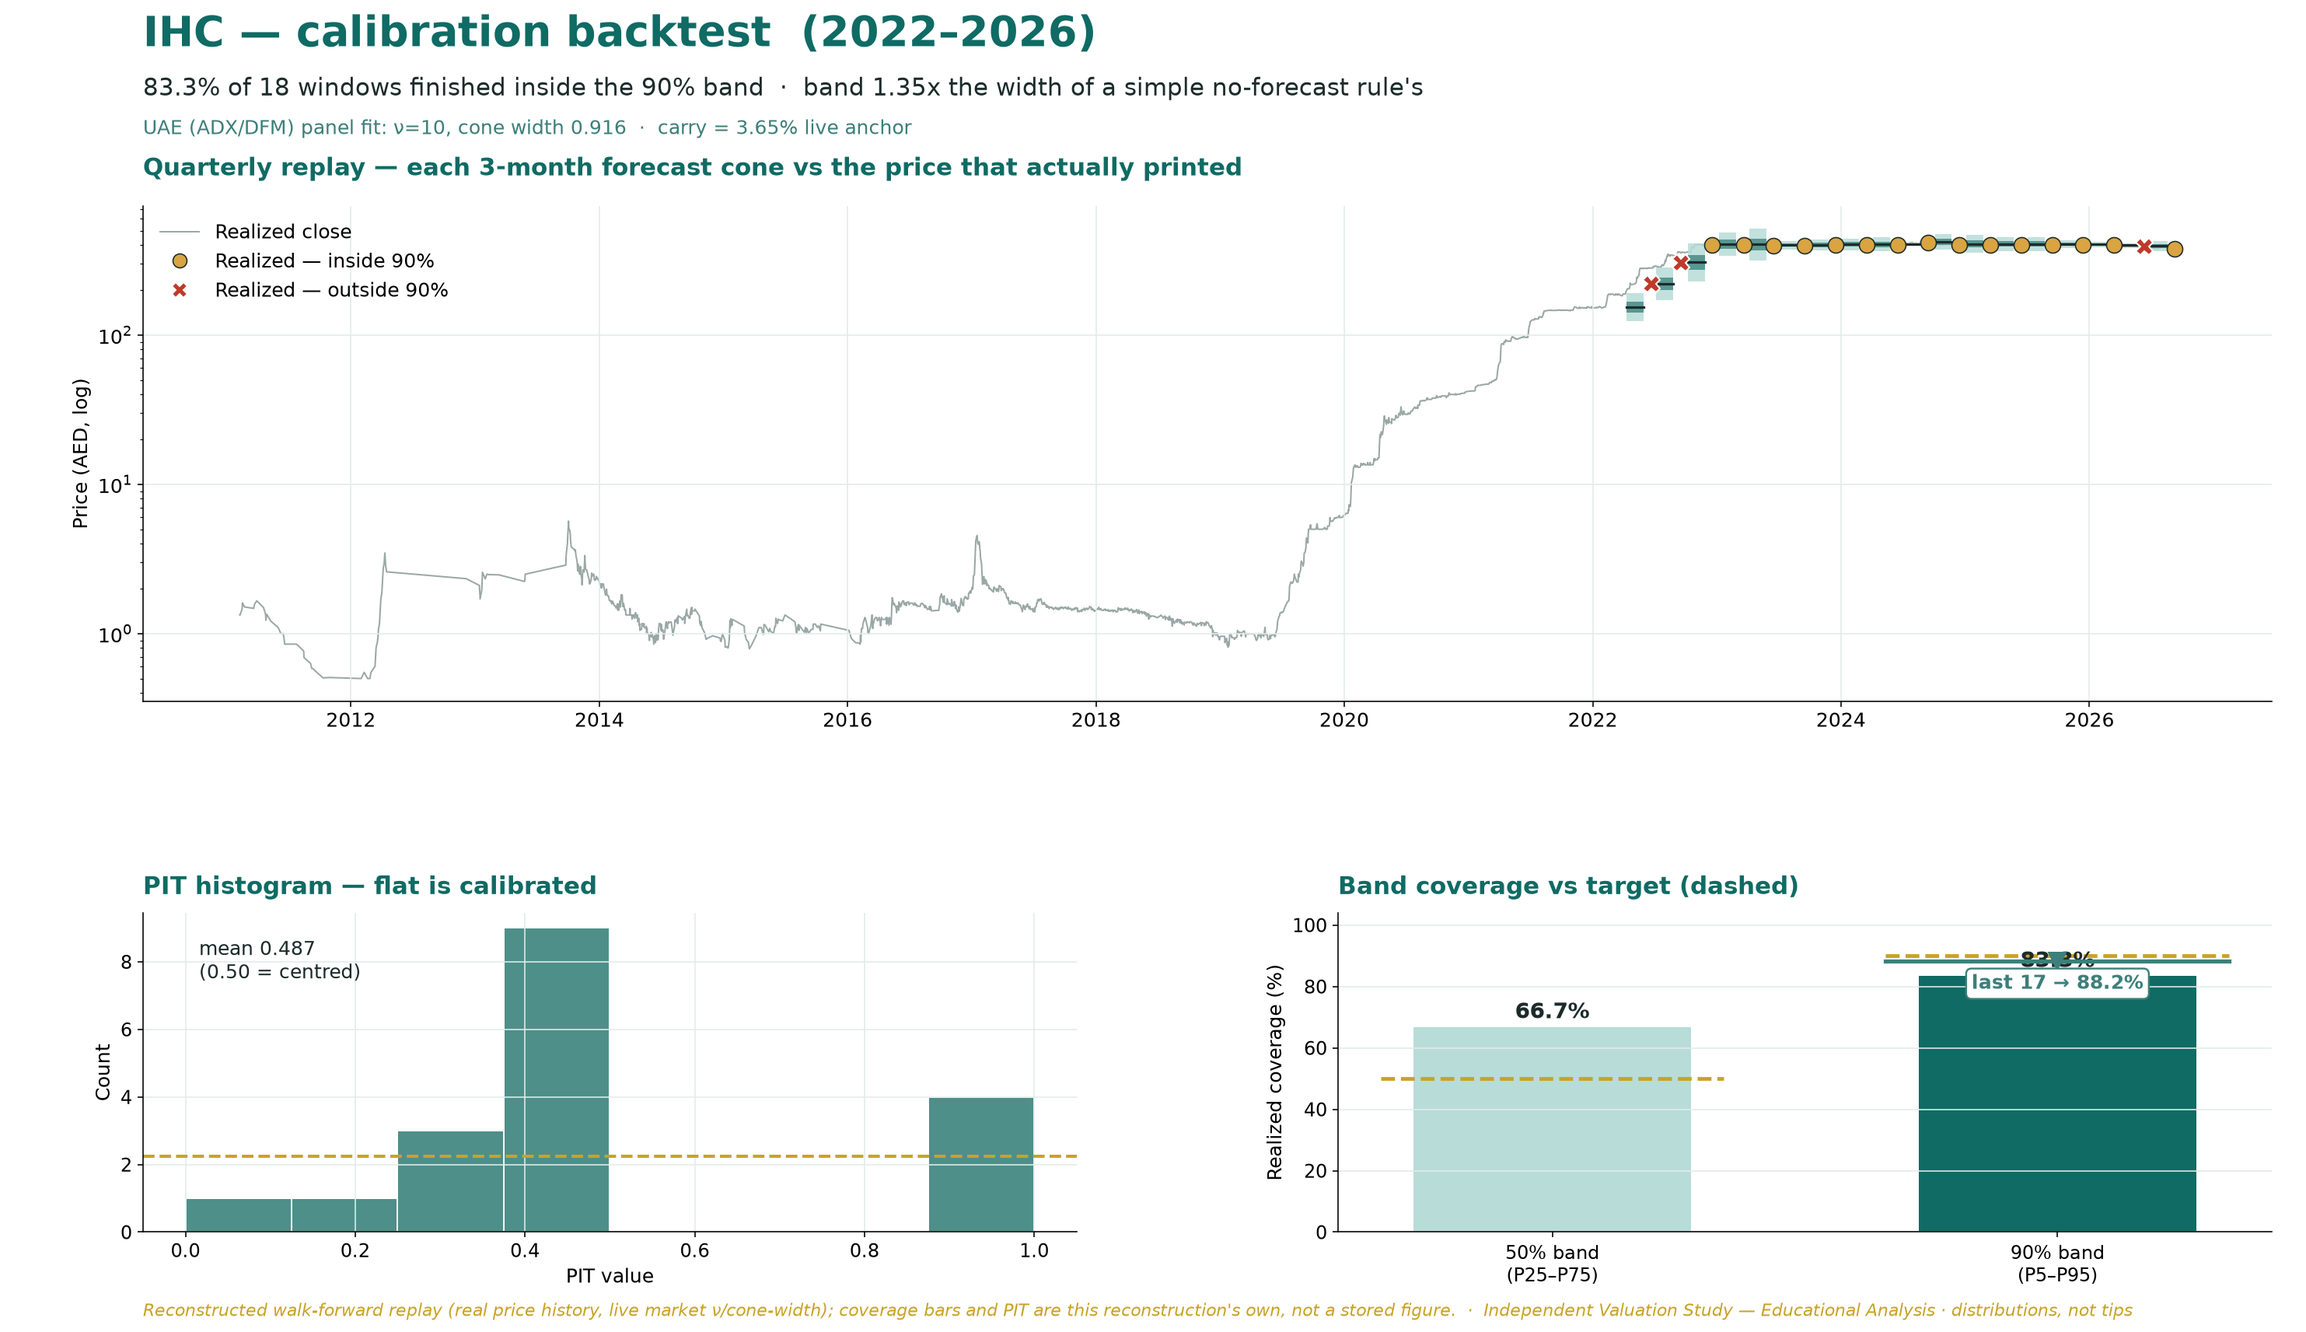
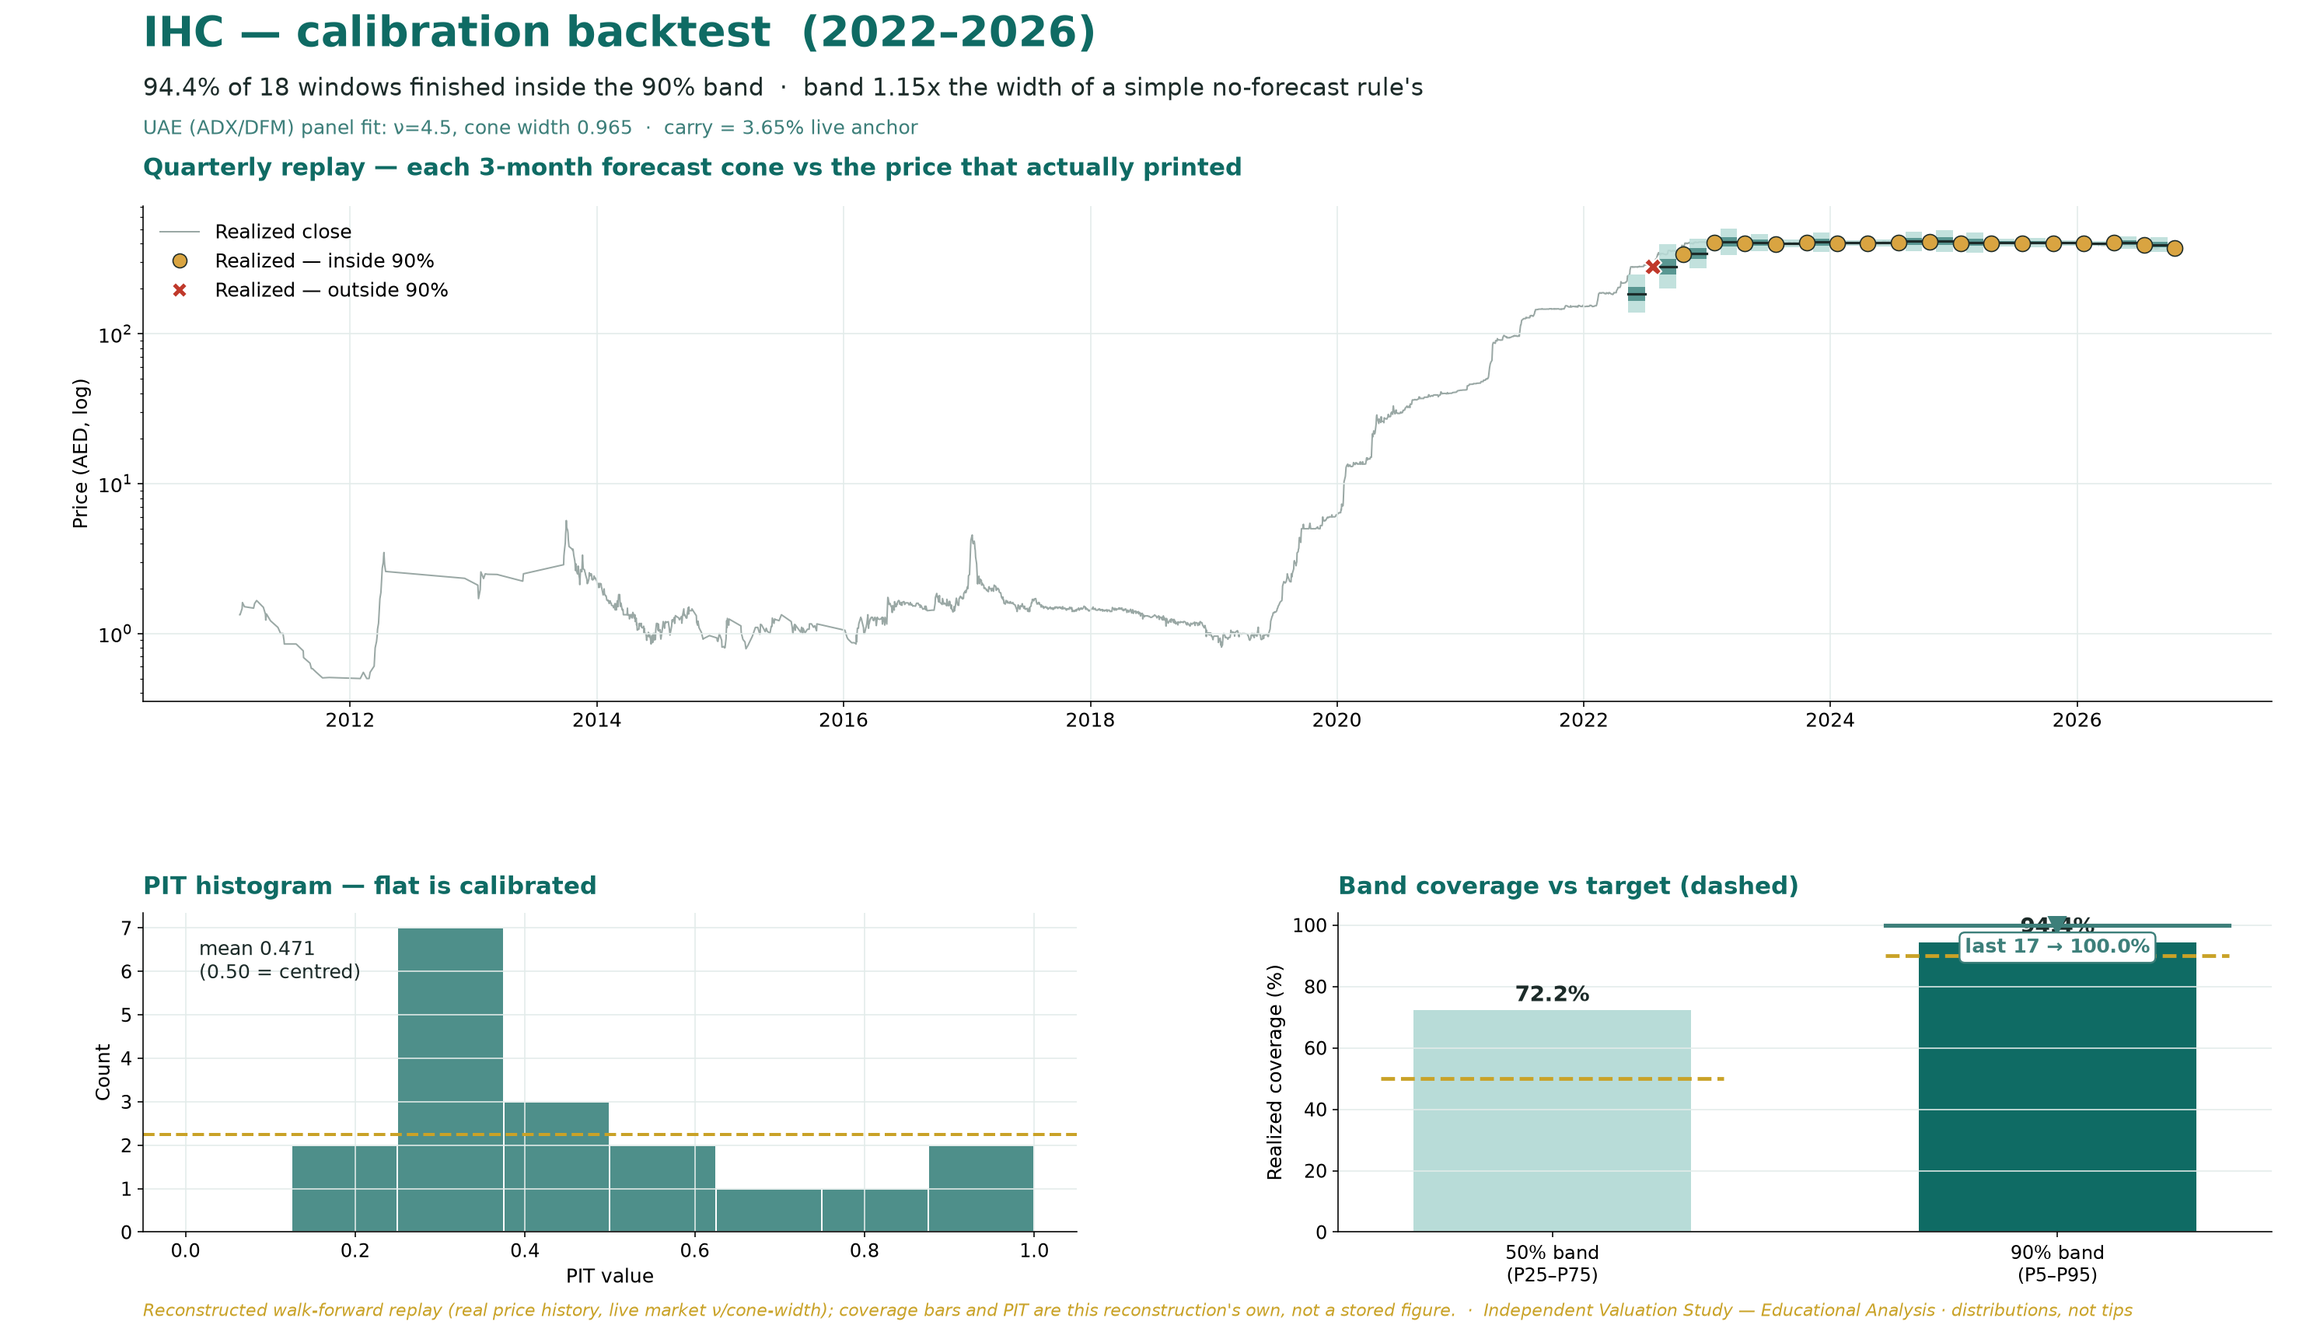
Republish IHC to the website
Surfaces regenerated (sitemap/footer, feed, market registry, chart + technicals); freshness and page-integrity gates clean; verified by headless render.

diff --git a/legacy/assets/data.js b/legacy/assets/data.js
@@ -2957,29 +2957,29 @@ const TICKERS = {
     name: "International Holding Company",
     nameAr: "الشركة العالمية القابضة",
     code: "ADX:IHC",
-    spot: 380.00,
-    spotDate: "close 24 Jul 2026",
+    spot: 371.20,
+    spotDate: "close 27 Aug 2026",
     ccy: "AED",
     fair: { bear: 78, base: 104.5, full: 150 },      // 4 Jul 2026 — five-lens weighted central 104.5 (−73% vs spot 382.30). Lenses: look-through SOTP/NAV 120 (primary), consolidated operating DCF 81 (floor), relative multiples 102, normalized earnings 91; weights 45/15/20/20. Swing: the premium the market pays over reconstructable NAV — IHC trades at ~3.2x look-through NAV / ~5.5x attributable book, the inverse of the usual holdco discount.
     dist: {
-      t20: { label:"1 month",   p5:365.41, p25:374.88, p50:380.24, p75:385.69, p95:395.95, resolve:"2026-08-24" },
-      t60: { label:"3 months",  p5:347.87, p25:368.48, p50:380.17, p75:392.17, p95:415.62, resolve:"2026-10-26" }
+      t20: { label:"1 month",   p5:348.08, p25:362.41, p50:370.58, p75:379.16, p95:395.09, resolve:"2026-09-28" },
+      t60: { label:"3 months",  p5:326.87, p25:353.59, p50:369.26, p75:385.49, p95:417.60, resolve:"2026-11-27" }
     },
-    hz: { h1:20, h3:63, l1:"1 month", l3:"3 months", cal:true },
-    fit: { nu:4.5, cal:0.965, mult:1, eff:0.965, on:"2026-08-25" },
+    hz: { h1:22, h3:64, l1:"1 month", l3:"3 months", cal:true },
+    fit: { nu:4.5, cal:0.965, mult:1, eff:0.965, on:"2026-08-31" },
     touch: [ /* descending high -> low; P(touch) 1-month %, 3-month % */
-      [459.00, 0, 1], [440.00, 0, 2], [421.00, 0, 6], [405.00, 2, 18], [394.00, 11, 40], [371.00, 22, 55], [359.00, 3, 22], [344.00, 0, 7], [325.00, 0, 2]
+      [459.00, 0, 2], [440.00, 0, 3], [421.00, 1, 8], [405.00, 3, 17], [394.00, 9, 30], [371.00, 88, 93], [359.00, 29, 58], [344.00, 5, 25], [325.00, 1, 8]
     ],
-    levels: { res:[387.22, 394.19, 400.18], sup:[370, 360, 350] },
+    levels: { res:[375.51, 385.09, 400.16], sup:[360, 350, 340] },
     tech: {
-      trend: "Trading below the whole moving-average stack, under a flat 200-day",
-      summary: "The price closed 380.00 below a falling 20-day (381.02), a falling 50-day (385.12) and a flat 200-day (394.19). Momentum is soft: RSI(14) is ~39 and the daily ATR near 1.69 (~0.4%) points to an orderly tape. MACD (12\u00b726\u00b79) is below zero but turning up (\u22121.61 / \u22121.72 / +0.12). Over the last year it has ranged 379.00\u2013404.00; the last close sits 6% below that high and 0% above that low.",
-      bull: "A daily close back above 387.22 would clear the nearest resistance and open the 400.18 zone.",
-      bear: "A close below 370.00 would break the nearest support and open the 350.00 zone."
+      trend: "Trading below the whole moving-average stack, under a falling 200-day",
+      summary: "The price closed 372.00 below a falling 20-day (375.51), a falling 50-day (379.13) and a falling 200-day (391.22). Momentum is neutral: RSI(14) is ~43 and the daily ATR near 3.05 (~0.8%) points to an orderly tape. MACD (12\u00b726\u00b79) is negative and still falling (\u22122.51 / \u22122.29 / \u22120.22). Over the last year it has ranged 369.50\u2013404.00; the last close sits 8% below that high and 1% above that low.",
+      bull: "A daily close back above 375.51 would clear the nearest resistance and open the 400.16 zone.",
+      bear: "A close below 360.00 would break the nearest support and open the 340.00 zone."
     },
     asof: {
-      mc:   { data:"2026-07-24", computed:"2026-08-25" },
-      tech: { data:"2026-07-24", computed:"2026-08-30" }
+      mc:   { data:"2026-08-27", computed:"2026-08-31" },
+      tech: { data:"2026-08-31", computed:"2026-08-31" }
     },
     files: {
       study: "files/IHC_Valuation_Study_04-07-2026_public.docx?v=0407",
@@ -3202,7 +3202,7 @@ const BANDS = {
   Gold: {mkt:"XAU", n:62, hits:59, c50:0.4194, c80:0.8387, c90:0.9516, width:1.024, strength:"long", flag:null},
   HELI: {mkt:"EG", n:57, hits:52, c50:0.5614, c80:0.7895, c90:0.9123, width:1.372, strength:"long", flag:null},
   HRHO: {mkt:"EG", n:57, hits:53, c50:0.5439, c80:0.8421, c90:0.9298, width:1.500, strength:"long", flag:null},
-  IHC: {mkt:"AE", n:47, hits:38, c50:0.6383, c80:0.7872, c90:0.8085, width:1.225, strength:"long", flag:"narrow"},
+  IHC: {mkt:"AE", n:47, hits:40, c50:0.6596, c80:0.7872, c90:0.8511, width:1.262, strength:"long", flag:null},
   INFY: {mkt:"IN", n:57, hits:51, c50:0.5088, c80:0.8246, c90:0.8947, width:1.126, strength:"long", flag:null},
   IQCD: {mkt:"QA", n:58, hits:52, c50:0.4828, c80:0.8103, c90:0.8966, width:1.003, strength:"long", flag:null},
   ISPH: {mkt:"EG", n:30, hits:23, c50:0.4667, c80:0.7333, c90:0.7667, width:1.316, strength:"short", flag:"narrow"},
@@ -3246,7 +3246,7 @@ const BANDS = {
 };
 // Pooled per-market record: what a market-only name is judged on.
 const BAND_MARKETS = {
-  AE: {names:28, n:912, c90:0.9035, label:"UAE"},
+  AE: {names:28, n:912, c90:0.9057, label:"UAE"},
   EG: {names:37, n:1794, c90:0.9281, label:"Egyptian"},
   IN: {names:3, n:172, c90:0.8779, label:"Indian"},
   KR: {names:3, n:125, c90:0.8800, label:"Korean"},
@@ -4681,9 +4681,9 @@ const LEDGER = [
     note:"Cycle 2 roll-forward, 28-Jul-2026 — market-wide re-strike of EG/AE/SA onto the 15-year calibration libraries and the calendar horizon convention. Production chain, no approximation: Step 0.0 data-quality gate → YZ variance proxy → fit_har_v3 → har_forecast_v3 → carry drift ln(1+rf_live)−ln(1+q) → simulate_paths_v3, 50,000 paths, seed 42, signal OFF. q_annual=0 (FLAGGED — house convention; the drift is a GROSS-OF-DIVIDEND price carry and overstates the centre by roughly the yield). AE live fit nu=10.0, width_cal=0.979; rf_live 3.65% CBUAE base rate (AED peg -> Fed path). Horizon resolved by horizons.resolve() on AE's own realized calendar, not a session count.",
     p5:365.12, p25:374.9, p50:381.13, p75:387.49, p95:397.56,
     touch:{ "+5":6, "+10":0, "+15":0, "+20":0, "-5":4, "-10":0 },
-    realized_close:null, realized_high:null, realized_low:null,
-    in_90:null, in_50:null, realized_quantile:null, median_err:null,
-    touch_hit:{ "+5":null, "+10":null, "+15":null, "+20":null, "-5":null, "-10":null }
+    realized_close:371, realized_high:384.6, realized_low:369.5,
+    in_90:true, in_50:false, realized_quantile:0.170, median_err:-0.0266,
+    touch_hit:{ "+5":false, "+10":false, "+15":false, "+20":false, "-5":false, "-10":false }
   },
   {
     instrument:"IHC", asset_class:"equity",
@@ -6855,6 +6855,35 @@ const LEDGER = [
     realized_close:null, realized_high:null, realized_low:null,
     in_90:null, in_50:null, realized_quantile:null, median_err:null,
     touch_hit:{ "+5":null, "+10":null, "+15":null, "+20":null, "-5":null, "-10":null }
+  },
+
+  // ---- 31-Aug-2026 single-name roll-forward: IHC, struck on its own
+  //      latest library close. Append-only.
+  {
+    instrument:"IHC", asset_class:"equity",
+    anchor_date:"2026-08-27", run_date:"2026-08-31", anchor_price:371.2, ccy:"AED",
+    horizon_label:"1 month", grade_date:"2026-09-28", grade_basis:"projected", horizon_days:22,
+    cycle_no:3, reanchor_from:"2026-07-24", anchor_vol:0.1461,
+    signal_z:-1.005, signal_alpha:-0.004521,
+    note:"Cycle 3 roll-forward, 31-Aug-2026 — struck on the 27-Aug-2026 close, the latest session in this name’s library, at the monthly metronome — the prior cycle’s 1-month matured on 2026-08-24 and is graded in this same pass. The previous cone was anchored 2026-07-24; every still-open cohort on cycle 2 stays OPEN and grades on its own terms; nothing retro-edited. Production chain, no approximation: Step 0.0 data-quality gate → YZ variance proxy → fit_har_v3 → har_forecast_v3 → carry drift ln(1+rf_live)−ln(1+q) → simulate_paths_v3, 50,000 paths, seed 42, signal ON. q_annual=0 (FLAGGED — house convention; the drift is a GROSS-OF-DIVIDEND price carry and overstates the centre by roughly the yield.) AE live fit nu=4.5, width_cal=0.965. rf_live 3.65% CBUAE base rate (AED peg -> Fed path). Direction call DOWN, from this name’s own mom_combo z of -1.005 (outside the 0.25 dead zone); tilt -0.45% at 1M and -1.46% at 3M, applied through the engine’s per-market signal socket at the horizon’s own measured ic and capped at ic x sigma x z. Horizons resolved by horizons.resolve() on AE’s own realized calendar — a calendar commitment, not a session count; the session counts (h=22 / 64) size the cone only.",
+    p5:348.08, p25:362.41, p50:370.58, p75:379.16, p95:395.09,
+    touch:{ "+5":14, "+10":2, "+15":1, "+20":0, "-5":14, "-10":2 },
+    realized_close:null, realized_high:null, realized_low:null,
+    in_90:null, in_50:null, realized_quantile:null, median_err:null,
+    touch_hit:{ "+5":null, "+10":null, "+15":null, "+20":null, "-5":null, "-10":null }
+  },
+  {
+    instrument:"IHC", asset_class:"equity",
+    anchor_date:"2026-08-27", run_date:"2026-08-31", anchor_price:371.2, ccy:"AED",
+    horizon_label:"3 months", grade_date:"2026-11-27", grade_basis:"projected", horizon_days:64,
+    cycle_no:3, reanchor_from:"2026-07-24", anchor_vol:0.1628,
+    signal_z:-1.005, signal_alpha:-0.014722,
+    note:"Cycle 3 roll-forward, 31-Aug-2026 — struck on the 27-Aug-2026 close, the latest session in this name’s library, at the monthly metronome — the prior cycle’s 1-month matured on 2026-08-24 and is graded in this same pass. The previous cone was anchored 2026-07-24; every still-open cohort on cycle 2 stays OPEN and grades on its own terms; nothing retro-edited. Production chain, no approximation: Step 0.0 data-quality gate → YZ variance proxy → fit_har_v3 → har_forecast_v3 → carry drift ln(1+rf_live)−ln(1+q) → simulate_paths_v3, 50,000 paths, seed 42, signal ON. q_annual=0 (FLAGGED — house convention; the drift is a GROSS-OF-DIVIDEND price carry and overstates the centre by roughly the yield.) AE live fit nu=4.5, width_cal=0.965. rf_live 3.65% CBUAE base rate (AED peg -> Fed path). Direction call DOWN, from this name’s own mom_combo z of -1.005 (outside the 0.25 dead zone); tilt -0.45% at 1M and -1.46% at 3M, applied through the engine’s per-market signal socket at the horizon’s own measured ic and capped at ic x sigma x z. Horizons resolved by horizons.resolve() on AE’s own realized calendar — a calendar commitment, not a session count; the session counts (h=22 / 64) size the cone only.",
+    p5:326.87, p25:353.59, p50:369.26, p75:385.49, p95:417.6,
+    touch:{ "+5":38, "+10":14, "+15":6, "+20":3, "-5":42, "-10":14 },
+    realized_close:null, realized_high:null, realized_low:null,
+    in_90:null, in_50:null, realized_quantile:null, median_err:null,
+    touch_hit:{ "+5":null, "+10":null, "+15":null, "+20":null, "-5":null, "-10":null }
   }
 ];
 
@@ -7093,7 +7122,7 @@ const CALIB = {
   "ADX:EAND": {w: 58, in50: 55, in90: 88, through: "2026-08-05"},
   "ADX:FAB": {w: 58, in50: 52, in90: 91, through: "2026-08-13"},
   "ADX:FERTIGLB": {w: 14, in50: 43, in90: 86, through: "2026-05-19"},
-  "ADX:IHC": {w: 47, in50: 64, in90: 81, through: "2026-07-21"},
+  "ADX:IHC": {w: 47, in50: 64, in90: 83, through: "2026-07-21"},
   "ADX:LULU": {w: 2, in50: 100, in90: 100, through: "2026-06-01"},
   "ADX:MODON": {w: 23, in50: 52, in90: 87, through: "2026-06-01"},
   "DFM:AIRARABIA": {w: 58, in50: 47, in90: 86, through: "2026-07-28"},

diff --git a/assets/fv_overlay.js b/assets/fv_overlay.js
@@ -7984,16 +7984,16 @@ const FV_OVERLAY = {
    "name": "International Holding Company",
    "code": "ADX:IHC",
    "ccy": "AED",
-   "spot": 380,
-   "anchor_date": "2026-07-24",
+   "spot": 371.2,
+   "anchor_date": "2026-08-27",
    "fv_asof": "2026-07-04",
-   "fv_lag_days": 20,
+   "fv_lag_days": 54,
    "fv_stale": false,
    "fv_asof_in_closure": false,
    "fv_bear": 78,
    "fv_base": 104.5,
    "fv_full": 150,
-   "gap_base_pct": -72.5,
+   "gap_base_pct": -71.8,
    "sigma_src": "quantile_inversion",
    "engine": {
     "nu": 4.5,
@@ -8006,13 +8006,13 @@ const FV_OVERLAY = {
    "realized_vs_fv": null,
    "converged": null,
    "1M": {
-    "h_sessions": 20,
-    "sigma_h": 0.026068,
-    "mu_h": 0.000631,
+    "h_sessions": 22,
+    "sigma_h": 0.041141,
+    "mu_h": -0.001672,
     "G": {
-     "bear": -60.74,
-     "base": -49.52,
-     "full": -35.66
+     "bear": -37.92,
+     "base": -30.81,
+     "full": -22.02
     },
     "band": "NOT-EXPRESSIBLE",
     "informative": false,
@@ -8027,16 +8027,16 @@ const FV_OVERLAY = {
     "hurdle_rf": 0.0365,
     "beats_cash": false,
     "asymmetry": "base below p5",
-    "selftest_max_dev": 0.00016
+    "selftest_max_dev": 0.00092
    },
    "3M": {
-    "h_sessions": 63,
-    "sigma_h": 0.057789,
-    "mu_h": 0.000447,
+    "h_sessions": 64,
+    "sigma_h": 0.079554,
+    "mu_h": -0.00524,
     "G": {
-     "bear": -27.4,
-     "base": -22.34,
-     "full": -16.09
+     "bear": -19.61,
+     "base": -15.93,
+     "full": -11.39
     },
     "band": "NOT-EXPRESSIBLE",
     "informative": false,
@@ -8044,14 +8044,14 @@ const FV_OVERLAY = {
     "p_term": null,
     "p_touch": null,
     "required_cagr": {
-     "bear": -0.9982,
-     "base": -0.9943,
-     "full": -0.9757
+     "bear": -0.9981,
+     "base": -0.9937,
+     "full": -0.9733
     },
     "hurdle_rf": 0.0365,
     "beats_cash": false,
     "asymmetry": "base below p5",
-    "selftest_max_dev": 0.00036
+    "selftest_max_dev": 0.00116
    },
    "market": "AE"
   },

diff --git a/legacy/assets/fv_overlay.js b/legacy/assets/fv_overlay.js
@@ -7984,16 +7984,16 @@ const FV_OVERLAY = {
    "name": "International Holding Company",
    "code": "ADX:IHC",
    "ccy": "AED",
-   "spot": 380,
-   "anchor_date": "2026-07-24",
+   "spot": 371.2,
+   "anchor_date": "2026-08-27",
    "fv_asof": "2026-07-04",
-   "fv_lag_days": 20,
+   "fv_lag_days": 54,
    "fv_stale": false,
    "fv_asof_in_closure": false,
    "fv_bear": 78,
    "fv_base": 104.5,
    "fv_full": 150,
-   "gap_base_pct": -72.5,
+   "gap_base_pct": -71.8,
    "sigma_src": "quantile_inversion",
    "engine": {
     "nu": 4.5,
@@ -8006,13 +8006,13 @@ const FV_OVERLAY = {
    "realized_vs_fv": null,
    "converged": null,
    "1M": {
-    "h_sessions": 20,
-    "sigma_h": 0.026068,
-    "mu_h": 0.000631,
+    "h_sessions": 22,
+    "sigma_h": 0.041141,
+    "mu_h": -0.001672,
     "G": {
-     "bear": -60.74,
-     "base": -49.52,
-     "full": -35.66
+     "bear": -37.92,
+     "base": -30.81,
+     "full": -22.02
     },
     "band": "NOT-EXPRESSIBLE",
     "informative": false,
@@ -8027,16 +8027,16 @@ const FV_OVERLAY = {
     "hurdle_rf": 0.0365,
     "beats_cash": false,
     "asymmetry": "base below p5",
-    "selftest_max_dev": 0.00016
+    "selftest_max_dev": 0.00092
    },
    "3M": {
-    "h_sessions": 63,
-    "sigma_h": 0.057789,
-    "mu_h": 0.000447,
+    "h_sessions": 64,
+    "sigma_h": 0.079554,
+    "mu_h": -0.00524,
     "G": {
-     "bear": -27.4,
-     "base": -22.34,
-     "full": -16.09
+     "bear": -19.61,
+     "base": -15.93,
+     "full": -11.39
     },
     "band": "NOT-EXPRESSIBLE",
     "informative": false,
@@ -8044,14 +8044,14 @@ const FV_OVERLAY = {
     "p_term": null,
     "p_touch": null,
     "required_cagr": {
-     "bear": -0.9982,
-     "base": -0.9943,
-     "full": -0.9757
+     "bear": -0.9981,
+     "base": -0.9937,
+     "full": -0.9733
     },
     "hurdle_rf": 0.0365,
     "beats_cash": false,
     "asymmetry": "base below p5",
-    "selftest_max_dev": 0.00036
+    "selftest_max_dev": 0.00116
    },
    "market": "AE"
   },
